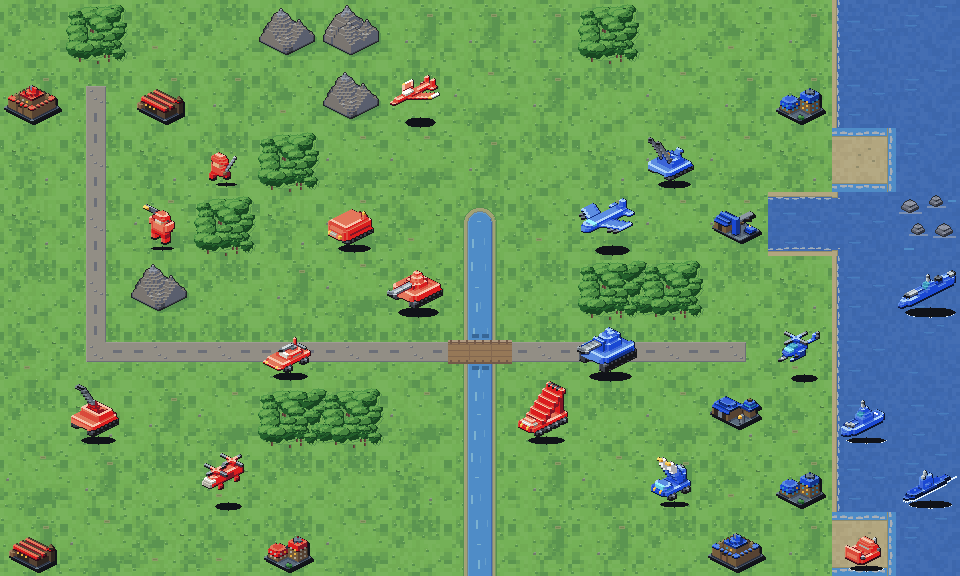
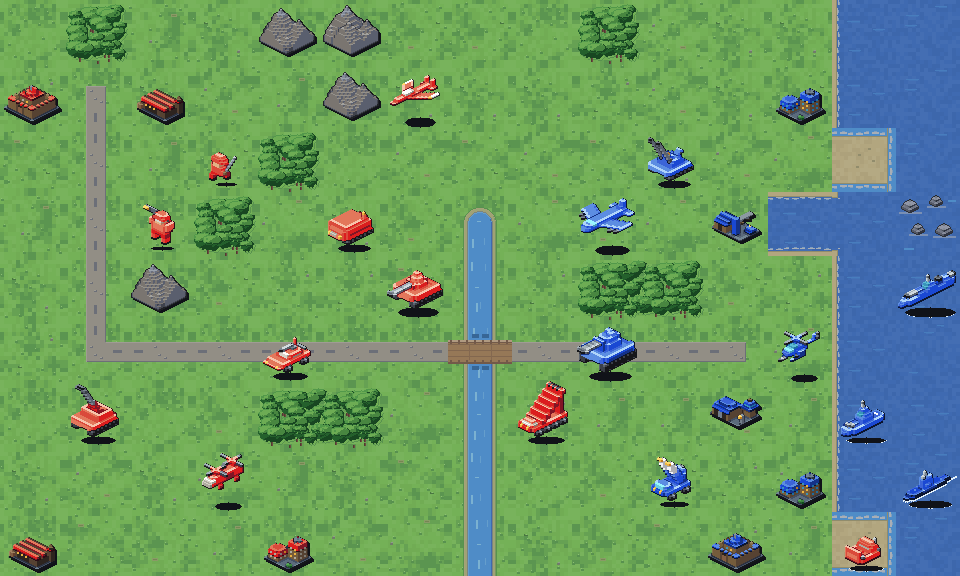
Ground the massif and widen the plains field to eight phases
The massif stamped its contact shadow in GRASS_DARK, the grass's own
shaded rim, so the darkest pixel on the tile was its outline while every
unit and building beside it drops SHADOW at the same offset. It drops
the same tone now; the shape, the clips and the shadow's row are
untouched, so only the tone the phase test picks it out by moved.

Plains goes from five phases to eight: the shipped maps are ~56% plains
and five variants still put the same fleck at the same in-tile position
often enough to read as a lattice. The added phases are salt variants of
the same field — no painter change — and the demo board's pinned hash
row was re-derived from Godot 4.7 at count 8.

The three salts (31, 253, 316) were searched for rather than chosen: the
shared border ring puts a floor of ~0.15 under any two phases' clump
overlap, and this is the trio that joins the table's five at the least
worst pair over all 28 — 0.33 measured on the tiles, against the 0.40
bar, which did not move.

diff --git a/spritegen/terrain.py b/spritegen/terrain.py
@@ -375,8 +375,8 @@ def _clump_layout(salt: int) -> dict[tuple[int, int], RGB]:
     The border ring is the shared one, read at its folded index; the interior
     is the phase's own field, ranked to whatever the ring left of the tile's
     fixed clump budget. Every phase therefore spends the same number of blocks
-    on each tone — the two plates and the five phases stay one field in
-    different arrangements — while their edges stay identical.
+    on each tone — the two plates and every phase stay one field in different
+    arrangements — while their edges stay identical.
     """
     ring = _ring_layout()
     layout = {}
@@ -420,7 +420,7 @@ def _grass_ground(salt: int) -> Image.Image:
             # board's 4:1 rung, which a wobble inside it only blurs, and a
             # grained clump spends a colour per rung on a tile already close
             # to the 80-colour ceiling (woods measured 88). Flat also means
-            # both plates and all five phases spend exactly these two tones,
+            # both plates and every phase spend exactly these two tones,
             # which is what `WoodsSeam` reads the woods plate against the
             # plains one on.
             tone = layout.get((bxi, byi))
@@ -547,19 +547,34 @@ _DECALS = {"pebble": _pebble, "tussock": _tussock, "dry": _dry_patch}
 # grid: tile means within 0.31L of each other, with three of the five carrying
 # nothing at all. Rarity is the clump field's job now — it is what a stretch of
 # field varies BY — so the decals stop being the only difference between phases
-# and four of the five carry a find. Phase 0 stays bare because it is the atlas
+# and all but one carry a find. Phase 0 stays bare because it is the atlas
 # column, which is the tile a board falls back to everywhere.
-# The salts were re-picked on 2026-08-23, when the border ring became shared:
-# the ring is a fifth of a tile's clumps laid the same way in every phase, a
-# floor of ~0.15 under any two phases' layout overlap, so the four that are
-# free are the four whose interiors agree least — 0.31 at the worst pair,
-# against 0.47 for the salts the table happened to hold.
+# EIGHT of them since 2026-08-23, not five: the shipped maps are ~56% plains,
+# and at the board's 4:1 rung a five-phase field puts the same fleck back at
+# the same in-tile position every fifth cell the hash lands on — a lattice at
+# a longer pitch is still a lattice. The three added phases are salt variants
+# of the same field, drawn by the same painter: only the hash key, the tuft
+# offset and where the find lies move, so the coverage, the tone count and the
+# value band the field is measured on are the phases the table already had.
+# The game's `TerrainAutotiles.PLAINS_PHASES` counts these cells, so it moves
+# with this tuple or the board indexes off the end of the sheet.
+# The salts are PICKED, not chosen for looks: since the border ring became
+# shared it is a fifth of a tile's clumps laid the same way in every phase, a
+# floor of ~0.15 under any two phases' layout overlap, so what a salt buys is
+# how little its INTERIOR agrees with the others'. The five the table held
+# were searched for on 2026-08-23 (0.31 at the worst of ten pairs, against
+# 0.47 for the salts it happened to hold); 31, 253 and 316 are the trio that
+# joins them at the least worst pair over all 28 — 0.34, which no trio of
+# salts under 400 beats.
 PLAINS_PHASES: tuple[tuple[int, int, int, tuple[tuple[str, int, int], ...]], ...] = (
     (PLAINS_SALT, 0, 0, ()),
     (8, 27, 19, (("tussock", 52, 22), ("dry", 24, 46))),
     (13, 45, 37, (("pebble", 6, 30), ("dry", 40, 8))),
     (20, 13, 49, (("pebble", 21, 40), ("dry", 43, 14))),
     (49, 55, 7, (("tussock", 12, 22), ("pebble", 45, 50))),
+    (31, 33, 29, (("dry", 14, 12), ("tussock", 46, 44))),
+    (253, 7, 41, (("pebble", 50, 18), ("tussock", 18, 46))),
+    (316, 49, 11, (("dry", 40, 46), ("pebble", 12, 24))),
 )
 
 # A tuft is drawn whole, inside the cell. It used to WRAP around the tile,
@@ -931,8 +946,17 @@ ROCK: tuple[RGB, RGB, RGB, RGB] = (
 
 def _contact_shadow(tile: Image.Image, sprite: Image.Image, x0: int, y0: int) -> None:
     """The shadow a prop standing on grass drops: its own silhouette, moved
-    down-right by `voxel.SHADOW_OFFSET` — the sheet's one sun — in the field's
-    own dark grass rather than in a tone of its own.
+    down-right by `voxel.SHADOW_OFFSET` — the sheet's one sun — in the sheet's
+    one cast-shadow tone, `SHADOW`.
+
+    It used to be stamped in GRASS_DARK, which is the grass's own shaded rim
+    and the tone the tufts and the shed boulders are drawn in: the massif was
+    then the one raised thing on the board whose darkest pixel was its (30,
+    32, 36) outline, standing beside a unit and a city that both drop the
+    (16, 18, 24) SHADOW at the same offset. A raised mass reads as raised by
+    the hole its shadow puts in the ground, so the massif drops the same one.
+    The grass keeps GRASS_DARK for what the grass does — the woods' fringe
+    line stays a line of dark grass, because a wood is not one massing.
 
     Only where the prop is not already standing, and only where the pixel that
     CAST it is inside the cell: a shadow whose caster was clipped off the tile
@@ -952,7 +976,7 @@ def _contact_shadow(tile: Image.Image, sprite: Image.Image, x0: int, y0: int) ->
             if 0 <= tx - x0 < sprite.width and 0 <= ty - y0 < sprite.height:
                 if sp[tx - x0, ty - y0][3] != 0:
                     continue  # the prop stands on its own shadow
-            px[tx, ty] = (*GRASS_DARK, 255)
+            px[tx, ty] = (*SHADOW, 255)
 
 
 def mountain(phase: int = 0) -> Image.Image:

diff --git a/tests/test_plains_phases.py b/tests/test_plains_phases.py
@@ -44,19 +44,19 @@ DECAL_SPAN = 8
 
 
 class PlainsPhases(unittest.TestCase):
-    # The field's texture, bounded from below. Measured 9.70-9.95 sd and
-    # 55-75% of pixels within 8L of the mean, against 4.5 and 97.9% before
+    # The field's texture, bounded from below. Measured 9.87-10.07 sd and
+    # 44-66% of pixels within 8L of the mean, against 4.5 and 97.9% before
     # the clump field.
     MIN_FIELD_SD = 8.0
     MAX_FLAT_SHARE = 0.80
     # `terrain._CLUMP_SHARE` is a fixed 30% of the tile's blocks; the tufts
     # and decals drawn over the field eat a little of it, which measures
-    # 29.0-29.5% of the tile — so the floor is close under that rather than a
+    # 29.0-29.6% of the tile — so the floor is close under that rather than a
     # token one a half-coverage field would still clear.
     MIN_CLUMP_SHARE = 0.25
     MAX_CLUMP_SHARE = 0.30
     # Two phases sharing this much of their clump layout would be the same
-    # picture again. Measured 0.23-0.30 over the ten pairs; the border ring
+    # picture again. Measured 0.23-0.33 over the 28 pairs; the border ring
     # every phase shares (`terrain._SEAM_SALT`) is a fifth of a tile's clumps
     # laid identically, so ~0.15 of that is structural and the bar stays where
     # it was rather than being moved to suit the ring.
@@ -280,9 +280,10 @@ class PlainsPhases(unittest.TestCase):
         """The doctrine this table shipped with was the reverse — three of the
         five phases bare, so a decal was the only thing a phase varied by. With
         the clump field carrying the variation, a decal is scattered detail on
-        a field that already differs, and the field can afford them: four of
-        the five carry one. Phase 0 stays bare because it is the atlas column,
-        the tile a board that has not adopted the sheet draws everywhere."""
+        a field that already differs, and the field can afford them: every
+        phase but one carries a find. Phase 0 stays bare because it is the
+        atlas column, the tile a board that has not adopted the sheet draws
+        everywhere."""
         carried = [bool(entry[3]) for entry in terrain.PLAINS_PHASES]
         self.assertFalse(carried[0])
         self.assertEqual(sum(carried), len(carried) - 1)

diff --git a/tests/test_demo_map.py b/tests/test_demo_map.py
@@ -18,23 +18,26 @@ import unittest
 from spritegen import atlas, terrain
 
 
-# TerrainAutotiles.phase(Vector2i(x, y), 5) for x in 0..14, printed by Godot
-# from scenes/battle/terrain_autotiles.gd. The hash is the whole contract — a
-# preview whose phases are merely plausible is not the game's board — so it is
-# pinned against the engine's own arithmetic rather than against ours.
-_GODOT_PLAINS_PHASES_ROW0 = (0, 4, 1, 0, 4, 1, 3, 3, 3, 4, 0, 1, 3, 4, 4)
+# TerrainAutotiles.phase(Vector2i(x, y), 8) and (…, 3) for x in 0..14, printed
+# by Godot 4.7 from scenes/battle/terrain_autotiles.gd. The hash is the whole
+# contract — a preview whose phases are merely plausible is not the game's
+# board — so it is pinned against the engine's own arithmetic rather than
+# against ours. The plains row was re-derived when the field went from five
+# phases to eight; the count is an argument to the hash, so every cell moves.
+_GODOT_PLAINS_PHASES_ROW0 = (0, 1, 3, 4, 0, 7, 1, 1, 0, 2, 7, 4, 4, 3, 3)
 _GODOT_SEA_PHASES_ROW0 = (0, 1, 0, 0, 1, 2, 2, 2, 2, 2, 0, 2, 2, 0, 2)
 
 
 class DemoPhaseHash(unittest.TestCase):
     def test_matches_the_games_hash(self):
+        self.assertEqual(len(terrain.PLAINS_PHASES), 8, "re-derive the pinned row")
         for x, want in enumerate(_GODOT_PLAINS_PHASES_ROW0):
-            self.assertEqual(atlas.phase(x, 0, 5), want, f"plains phase at x={x}")
+            self.assertEqual(atlas.phase(x, 0, 8), want, f"plains phase at x={x}")
         for x, want in enumerate(_GODOT_SEA_PHASES_ROW0):
             self.assertEqual(atlas.phase(x, 0, 3), want, f"sea phase at x={x}")
 
     def test_stays_inside_the_phase_count(self):
-        for count in (3, 5):
+        for count in (3, 8):
             for y in range(40):
                 for x in range(40):
                     self.assertIn(atlas.phase(x, y, count), range(count))

diff --git a/tests/test_mountain_phases.py b/tests/test_mountain_phases.py
@@ -165,16 +165,21 @@ def _rock_rows(tile) -> list[int]:
 
 
 def _contact_shadow(tile) -> list[tuple[int, int]]:
-    """The massif's own cast shadow: dark grass with the rock that cast it
-    exactly `SHADOW_OFFSET` up-left, which is what tells it from the boulders
-    shed on the apron (`OneSun` reads the whole sheet this way)."""
+    """The massif's own cast shadow: the sheet's cast-shadow tone with the
+    rock that cast it exactly `SHADOW_OFFSET` up-left (`OneSun` reads the
+    whole sheet this way).
+
+    It used to be read as GRASS_DARK, and had to check the caster to tell the
+    shadow from the boulders shed on the apron. The massif drops the same
+    `terrain.SHADOW` a unit and a city drop now, so the tone alone names it —
+    the caster check stays because the offset is what is being asserted."""
     rgb = tile.convert("RGB")
     dx, dy = SHADOW_OFFSET
     return [
         (x, y)
         for y in range(dy, CELL)
         for x in range(dx, CELL)
-        if rgb.getpixel((x, y)) == terrain.GRASS_DARK
+        if rgb.getpixel((x, y)) == terrain.SHADOW
         and rgb.getpixel((x - dx, y - dy)) in _MASSIF_TONES
     ]
 

diff --git a/docs/plains_field.md b/docs/plains_field.md
@@ -5,10 +5,10 @@ of one green. Measured on the atlas tile before this pass:
 
 | | before | after |
 | --- | --- | --- |
-| tile luma sd | 4.5 | 9.70-9.95 (per phase) |
-| pixels within 8L of the tile mean | 97.9% | 55-75% |
+| tile luma sd | 4.5 | 9.87-10.07 (per phase) |
+| pixels within 8L of the tile mean | 97.9% | 44-66% |
 | tile median | L157.7 | L156.0 |
-| phase-to-phase difference | five translations of one tuft table, tile means within 0.31L | five different clump layouts, 23-30% of their clumped area shared |
+| phase-to-phase difference | five translations of one tuft table, tile means within 0.31L | eight different clump layouts, 23-33% of their clumped area shared |
 
 The ±3% per-block grain was doing none of that work and could not: it is a
 wobble of a couple of luma steps, and the game draws the board at a 4:1
@@ -62,11 +62,17 @@ seam the woods plate was fixed for in the first place.
 carrying nothing at all, so a decal was the only thing that told two phases
 apart — and the table therefore held decals rare on purpose ("most of the
 table is bare"). The clump field is what a stretch of field varies by now, so
-that rule is retired: **four of the five phases carry a find**, and phase 0
-stays bare only because it is the atlas column, the tile a board that has not
-adopted the sheet draws everywhere. `tests/test_plains_phases.py` states the
-replacement — clump coverage per phase, a floor under the field's sd, and no
-two phases laying their clumps the same way.
+that rule is retired: **all but one phase carries a find**, and phase 0 stays
+bare only because it is the atlas column, the tile a board that has not adopted
+the sheet draws everywhere. The table went to **eight** phases on 2026-08-23
+for the reason it has one at all — the boards are ~56% plains, so five variants
+still recur often enough for the eye to find the fleck at the same in-tile
+position across the lattice. The three added phases (salts 31, 253, 316) are
+salt variants of the same field: nothing in the painter moved, so their
+coverage, tone count and clump-layout overlap sit inside the bounds the first
+five are measured against. `tests/test_plains_phases.py` states the replacement
+— clump coverage per phase, a floor under the field's sd, and no two phases
+laying their clumps the same way.
 
 ## Two measurements restated, and one left open
 
@@ -142,12 +148,12 @@ every phase carries one:
   remove.
 - Coverage is still exact: the ring spends some of the tile's fixed clump
   budget and the interior is ranked to whatever is left, so every phase spends
-  the same number of blocks on each tone (29.0-29.5% of the tile, as before).
+  the same number of blocks on each tone (29.0-29.6% of the tile, as before).
 
 What it costs is that a fifth of a tile's clumps are laid the same way in every
-phase — a floor of ~0.15 under any two phases' layout overlap. The four free
-salts were re-picked for the interiors that agree least: the worst pair is 0.30
-against the `MAX_LAYOUT_OVERLAP` bar of 0.40, which did not move. The tufts
+phase — a floor of ~0.15 under any two phases' layout overlap. The seven free
+salts were picked for the interiors that agree least: the worst of the 28 pairs
+is 0.33 against the `MAX_LAYOUT_OVERLAP` bar of 0.40, which did not move. The tufts
 stopped wrapping around the tile for the same reason the ring exists — a tuft
 cut at one phase's edge met another phase's uncut one — and are now folded
 inside the cell, all twelve of them, in every phase.
@@ -179,8 +185,8 @@ S0.45 (`DECAL_HUE_ARC`, `DECAL_MAX_SAT`):
 | dry patch | `_DRY` L147, `_DRY_DK` L127 | H80 S0.34 / S0.38 |
 
 The dry patch leans 20° toward sand — as far as the arc allows — so a worn
-patch still reads as ground worn thin rather than as another clump. Four of the
-five phases still carry a find; phase 0 is still the atlas column and still
+patch still reads as ground worn thin rather than as another clump. Every
+phase but one still carries a find; phase 0 is still the atlas column and still
 bare.
 
 ### What did not move

diff --git a/README.md b/README.md
@@ -210,7 +210,7 @@ python3 -m venv .venv
 | `autotiles/{roads,rivers,coast,shoals,woods}.png` | 16-variant connection sheets (see below) |
 | `autotiles/bridges.png` | the two bridge deck orientations, E-W then N-S |
 | `autotiles/sea.png` | the three sea phase variants, phase 0 first (see below) |
-| `autotiles/plains.png` | the five plains phase variants, phase 0 first (see below) |
+| `autotiles/plains.png` | the eight plains phase variants, phase 0 first (see below) |
 | `autotiles/mountain.png` | the three mountain phase variants, phase 0 first (see below) |
 
 `units_atlas_figures.png` exists because a figure standing on a drawn ground
@@ -276,8 +276,13 @@ that hash copied out of `scenes/battle/terrain_autotiles.gd`
 cell for cell rather than a plausible-looking one.
 
 `autotiles/plains.png` is that rule on the ground most of a board is made of,
-and it is phased the same way: five tiles, phase 0 the atlas plains column byte
-for byte, chosen by the same coordinate hash. A phase's salt keys **the clump
+and it is phased the same way: eight tiles, phase 0 the atlas plains column
+byte for byte, chosen by the same coordinate hash. Eight and not the sea's
+three because the shipped maps are ~56% plains: at that share a five-phase
+field still puts the same fleck back at the same in-tile position often enough
+to read as a lattice at a longer pitch, and the phase count is the only dial
+that lengthens it. `TerrainAutotiles.PLAINS_PHASES` counts the sheet's cells,
+so the game's constant moves with the table. A phase's salt keys **the clump
 field and the grain**, and its offset stands the tufts somewhere else — same
 count, same tones, same clump coverage, every tuft drawn whole inside the cell
 — because plains is the reference ground most contrast pairs are read against,
@@ -306,7 +311,7 @@ every ground on the sheet came down with it (27.8 colours a cell -> 9.4).
 two-tone ground, and the one thing it costs: a clump ties in value with road
 gravel and separates from it by hue alone.
 
-Four of the five phases carry **decals**: a stone, a knot of tall grass, a
+Seven of the eight phases carry **decals**: a stone, a knot of tall grass, a
 patch the summer dried out — all of them in grass's own hue under S0.45, and
 under the terrain value ceiling. A find is 1-3px, which is a size that carries
 a hue and not a material: gravel grey and wildflower tan at that size read as
@@ -315,7 +320,7 @@ They are ground detail and never a game object — no signpost, fence or marker,
 which a board reads as a property from across the room — and they are drawn
 inside the cell rather than wrapped, so a decal never overhangs its neighbour.
 Phase 0 stays bare because it is the atlas column. Rarity used to be this
-table's job — three of five phases empty, since a decal was the only thing that
+table's job — three of the five phases empty, since a decal was the only thing that
 told two phases apart; the clump field is what a stretch of field varies by
 now, so a decal is scattered detail on an already-varied field. If a field ever
 reads busy, thin the table's decals rather than the clumps.

diff --git a/docs/terrain_tones.md b/docs/terrain_tones.md
@@ -181,3 +181,24 @@ rotates its hue a fraction of `_HUE_ARC`, which is the right move for a tone
 with chroma to defend and a coin flip for a grey — the same finding
 `terrain._SHADE_GREY` records for the painted tones. `ROCK_RAMP[2]` comes out
 at (90, 95, 110) against `ROCK[3]`'s (91, 95, 108).
+
+## The massif drops the sheet's shadow (2026-08-23)
+
+`terrain._contact_shadow` stamped the massif's silhouette in `GRASS_DARK`,
+which is the grass's own shaded rim — the tone the tufts and the boulders shed
+on the apron are drawn in — so the darkest pixel anywhere on the mountain tile
+was its (30, 32, 36) outline. Every other raised thing on the board drops
+`SHADOW` (16, 18, 24) at `voxel.SHADOW_OFFSET`: units through
+`voxel.compose_cell`, buildings through `terrain._drop_shadow`. A massif
+standing next to either of them read as flat-lit beside a hard shadow.
+
+It drops the same tone now, at the same offset, with the same two clips it
+already had (inside the cell, and never where the rock stands on it). Nothing
+about the shadow's SHAPE moved, so `MountainPhases`' horizon reading is the
+same row it was; only the tone the test picks the shadow out by changed, and
+`OneSun`'s per-pixel caster reading is unaffected because it reads a difference
+against the same tile drawn with no offset.
+
+The woods keep `GRASS_DARK`: that fringe is a line under each crown's shaded
+rim rather than one massing's cast silhouette, and the clearings between the
+crowns are the plains plate `WoodsSeam` measures the tile on.
